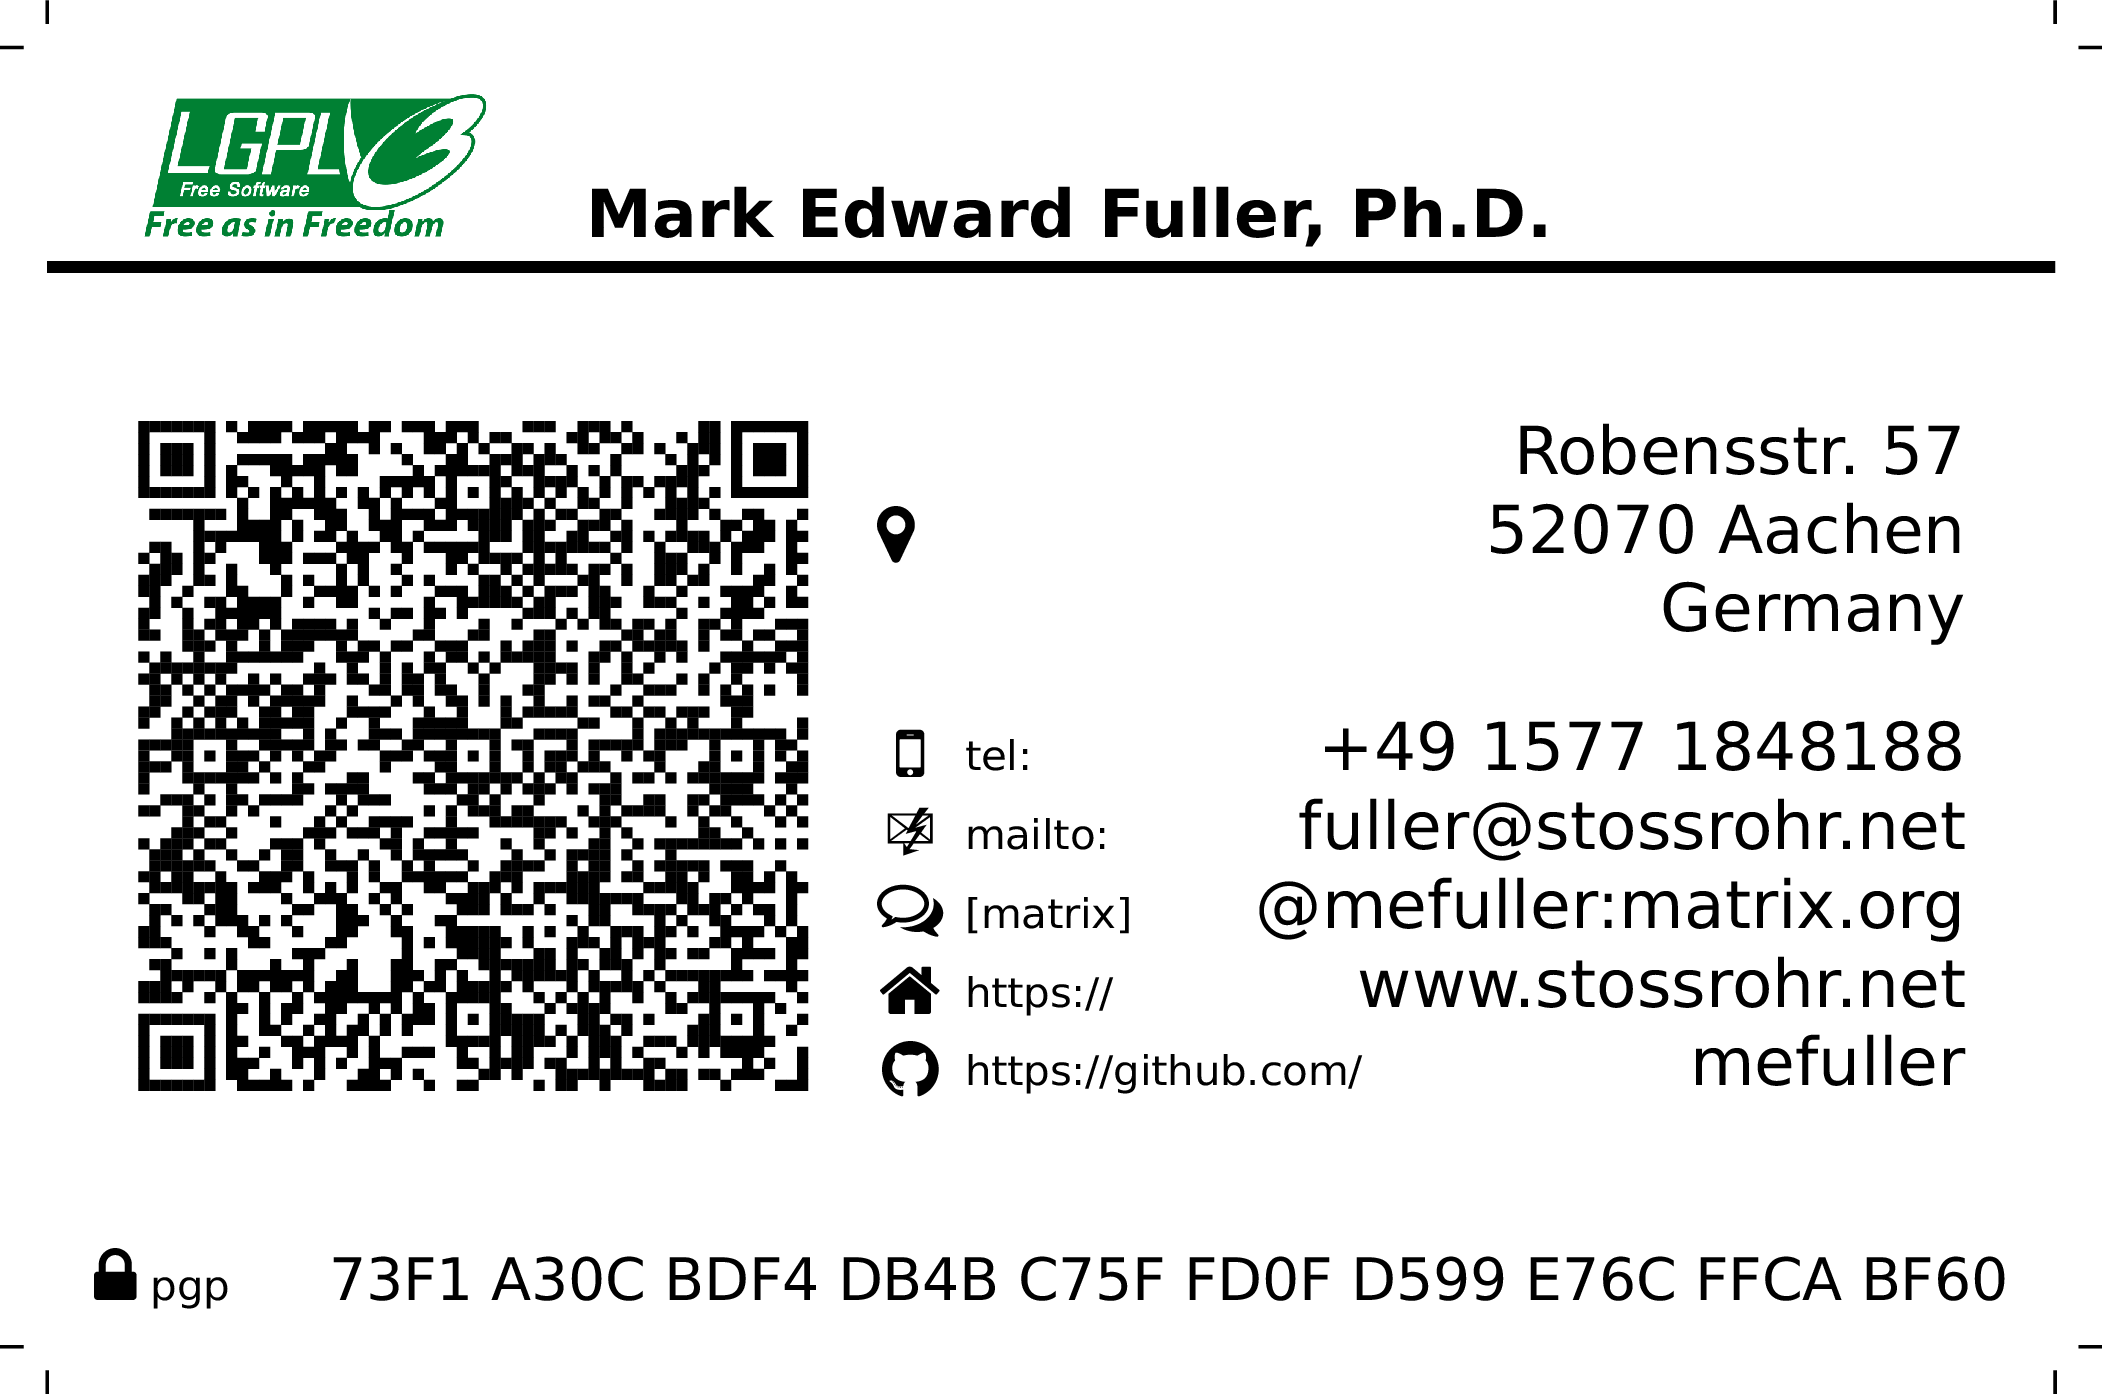
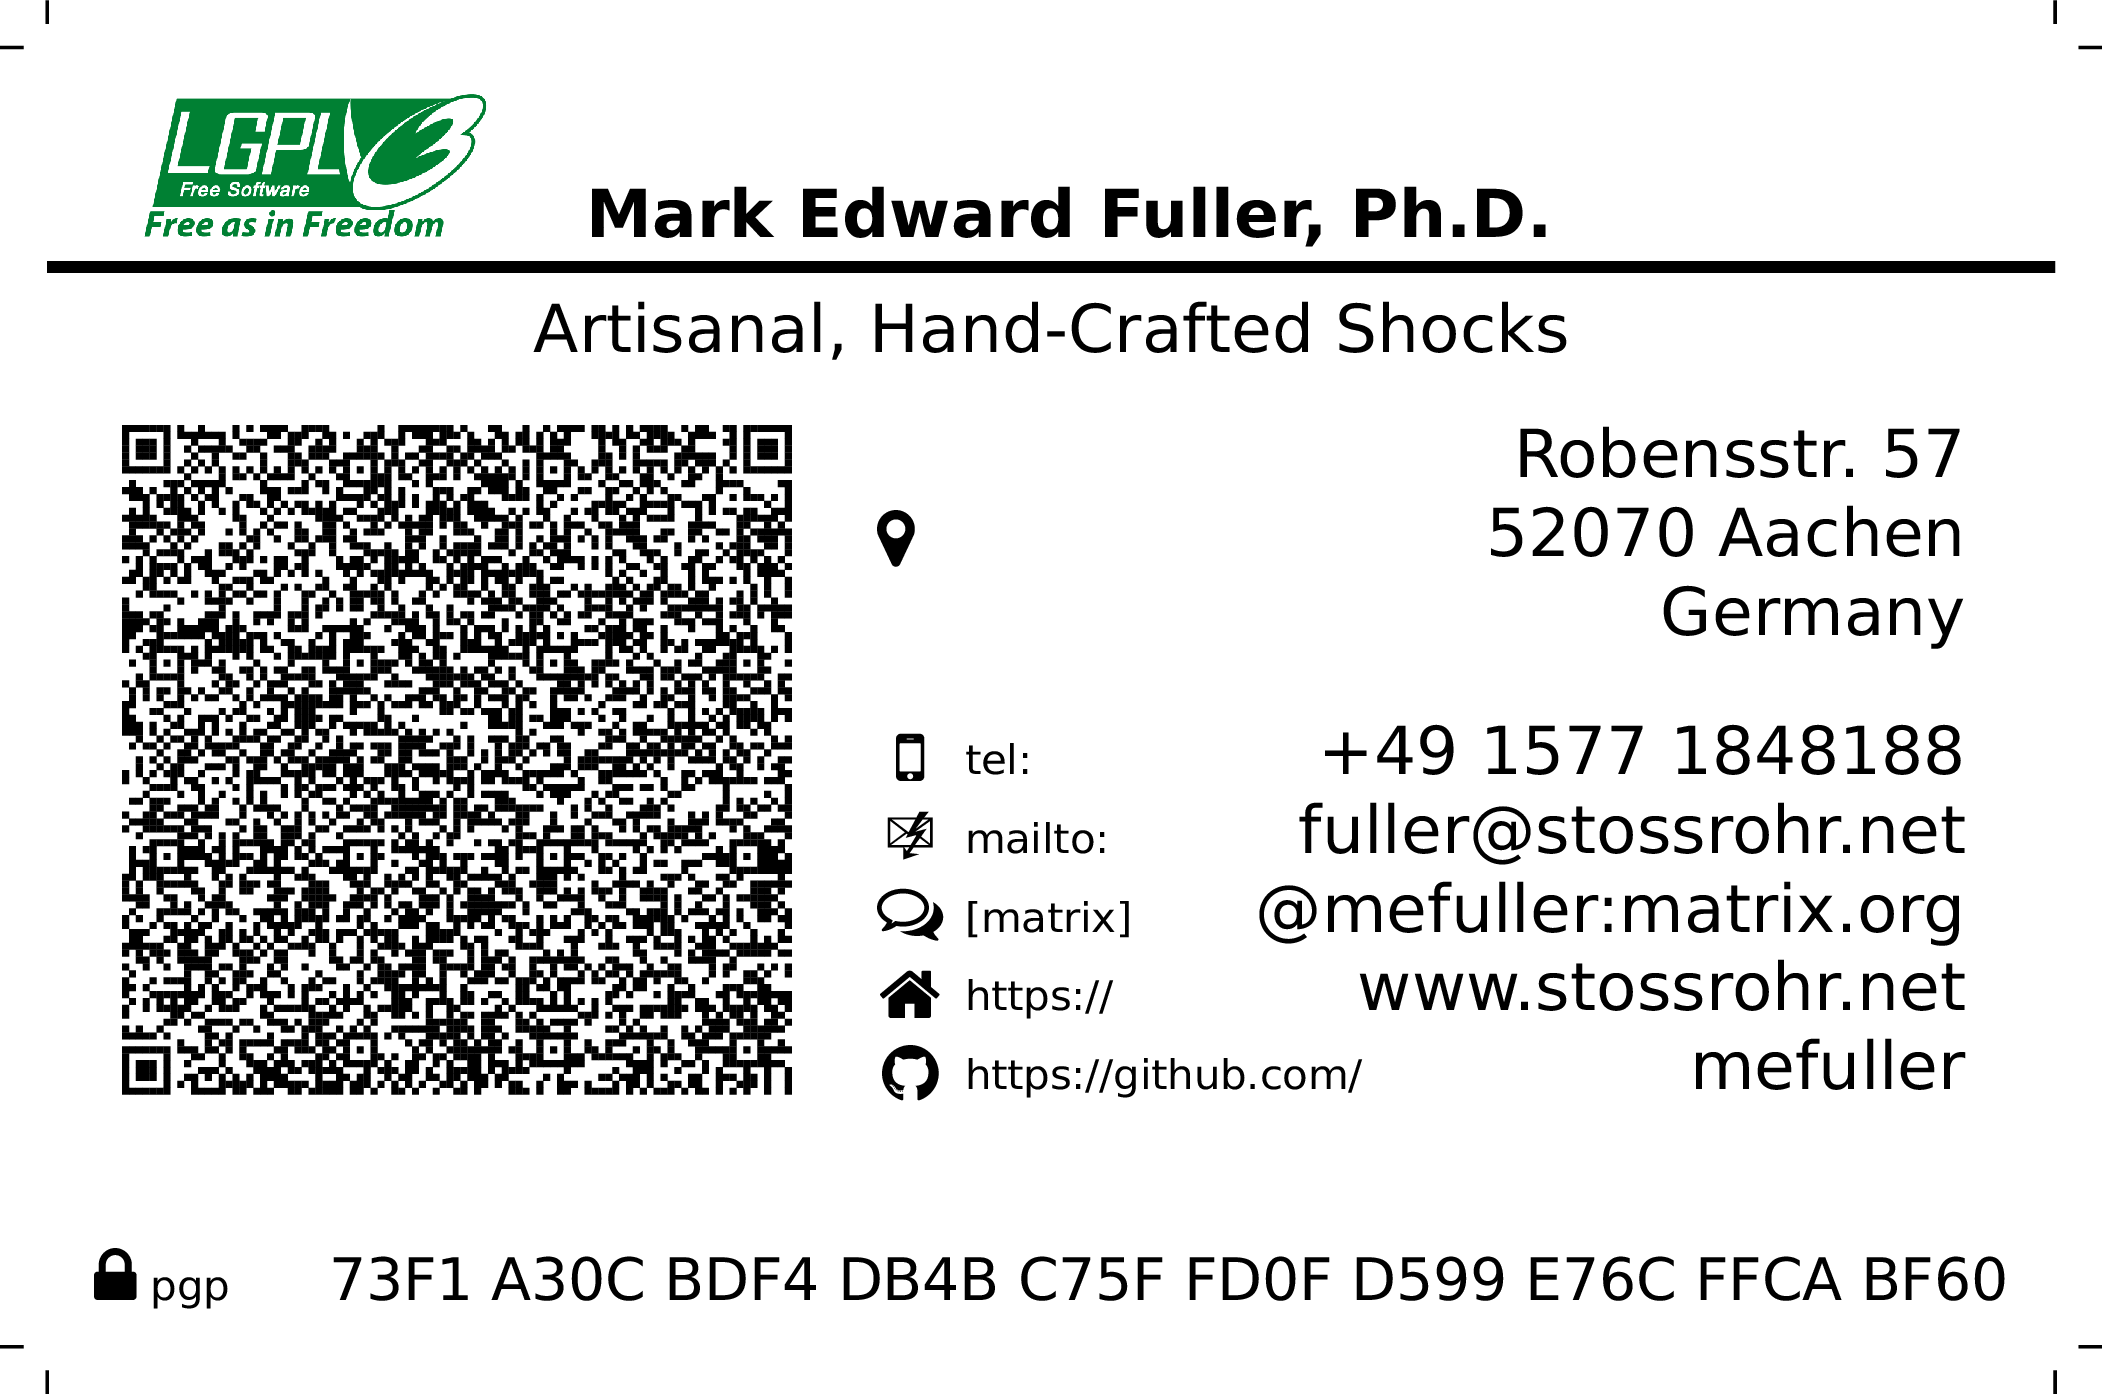
pro.title and zip/city order toggles

diff --git a/QRbusinesscard.tex b/QRbusinesscard.tex
@@ -1,12 +1,13 @@
 % !TeX program = xelatex
 
-\documentclass[lang=en,address,textwidth=0.58,qrwidth=0.35,https,fill,iconleft,rightalign,hint,icon,qrfirst,mecard,uselogo]{businesscard-qrcode}
+\documentclass[lang=en,address,zipfirst,textwidth=0.58,qrwidth=0.35,https,fill,iconleft,rightalign,hint,icon,qrfirst,vcard,uselogo]{businesscard-qrcode}
 
 \phone{+49 1577 1848188}
 \type{home}
 \honoricsuffix{Ph.D.}
 \givennames{Mark\ Edward}
 \familynames{Fuller}
+\ptitle{Artisanal,\ Hand-Crafted\ Shocks}
 \homepage{www.stossrohr.net}
 \github{mefuller}
 \email{fuller@stossrohr.net}
